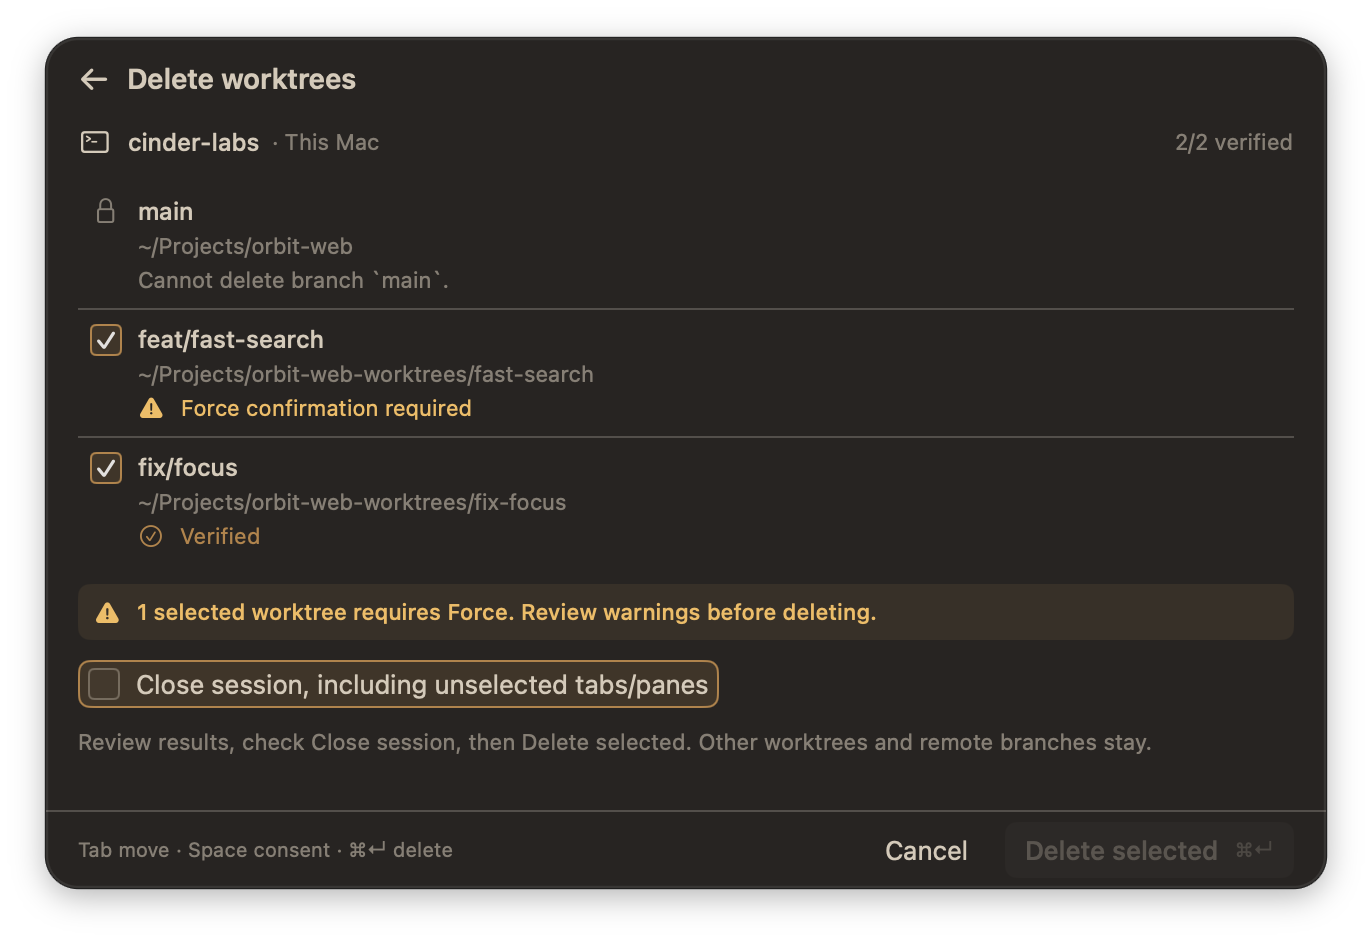
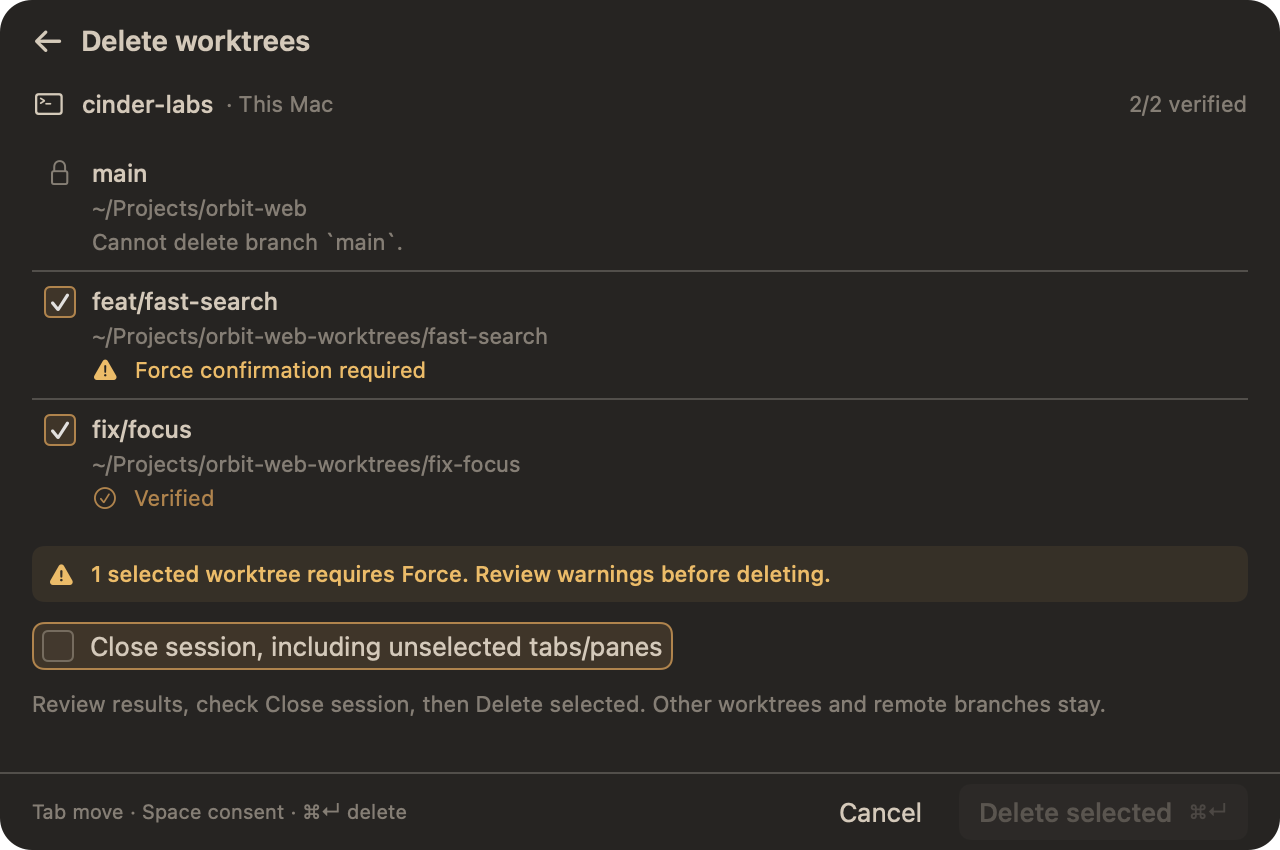
docs: refresh showcase for worktree controls

Changed region(s): [[0.0, 0.0, 1.0, 1.0]]

diff --git a/macos/Tests/ShowcaseCapture.swift b/macos/Tests/ShowcaseCapture.swift
@@ -25,7 +25,8 @@ struct ShowcaseCapture {
 
         let worktree = makeModel(mode: "wt-create", repo: "/Users/demo/Projects/orbit-web")
         worktree.start()
-        try await wait { !worktree.loading && worktree.previewReady }
+        try await wait { !worktree.loading && worktree.previewReady && worktree.agent == "pi"
+            && worktree.agentModel == "glm-5.3" && !worktree.agentCatalogLoading }
         try await capture(worktree, name: "worktree-create.png", in: output)
         worktree.close()
 
@@ -37,9 +38,6 @@ struct ShowcaseCapture {
             list.showWorktrees()
             try await wait { !list.loading && list.page == .worktrees && !list.items.isEmpty }
             try await capture(list, name: "worktrees.png", in: output)
-            list.beginCreate()
-            try await wait { list.page == .create && list.previewReady }
-            try await capture(list, name: "worktree-create.png", in: output)
         }
         list.close()
 
@@ -105,19 +103,19 @@ struct ShowcaseCapture {
         surface.addSubview(hosting)
         window.contentView = surface
         window.orderFrontRegardless()
-        try await Task.sleep(for: .milliseconds(350))
+        try await Task.sleep(for: .milliseconds(700))
         window.displayIfNeeded()
-        let path = URL(fileURLWithPath: directory).appendingPathComponent(name).path
-        let process = Process()
-        process.executableURL = URL(fileURLWithPath: "/usr/sbin/screencapture")
-        process.arguments = ["-x", "-l", String(window.windowNumber), path]
-        process.standardInput = FileHandle.nullDevice
-        try process.run()
-        process.waitUntilExit()
-        guard process.terminationStatus == 0 else {
-            throw NSError(domain: "ShowcaseCapture", code: Int(process.terminationStatus),
-                          userInfo: [NSLocalizedDescriptionKey: "Screenshot failed: \(path)"])
+        let path = URL(fileURLWithPath: directory).appendingPathComponent(name)
+        guard let image = surface.bitmapImageRepForCachingDisplay(in: surface.bounds) else {
+            throw NSError(domain: "ShowcaseCapture", code: 2,
+                          userInfo: [NSLocalizedDescriptionKey: "Could not allocate screenshot bitmap"])
         }
+        surface.cacheDisplay(in: surface.bounds, to: image)
+        guard let data = image.representation(using: .png, properties: [:]) else {
+            throw NSError(domain: "ShowcaseCapture", code: 3,
+                          userInfo: [NSLocalizedDescriptionKey: "Could not encode screenshot: \(path.path)"])
+        }
+        try data.write(to: path)
         window.close()
     }
 }
